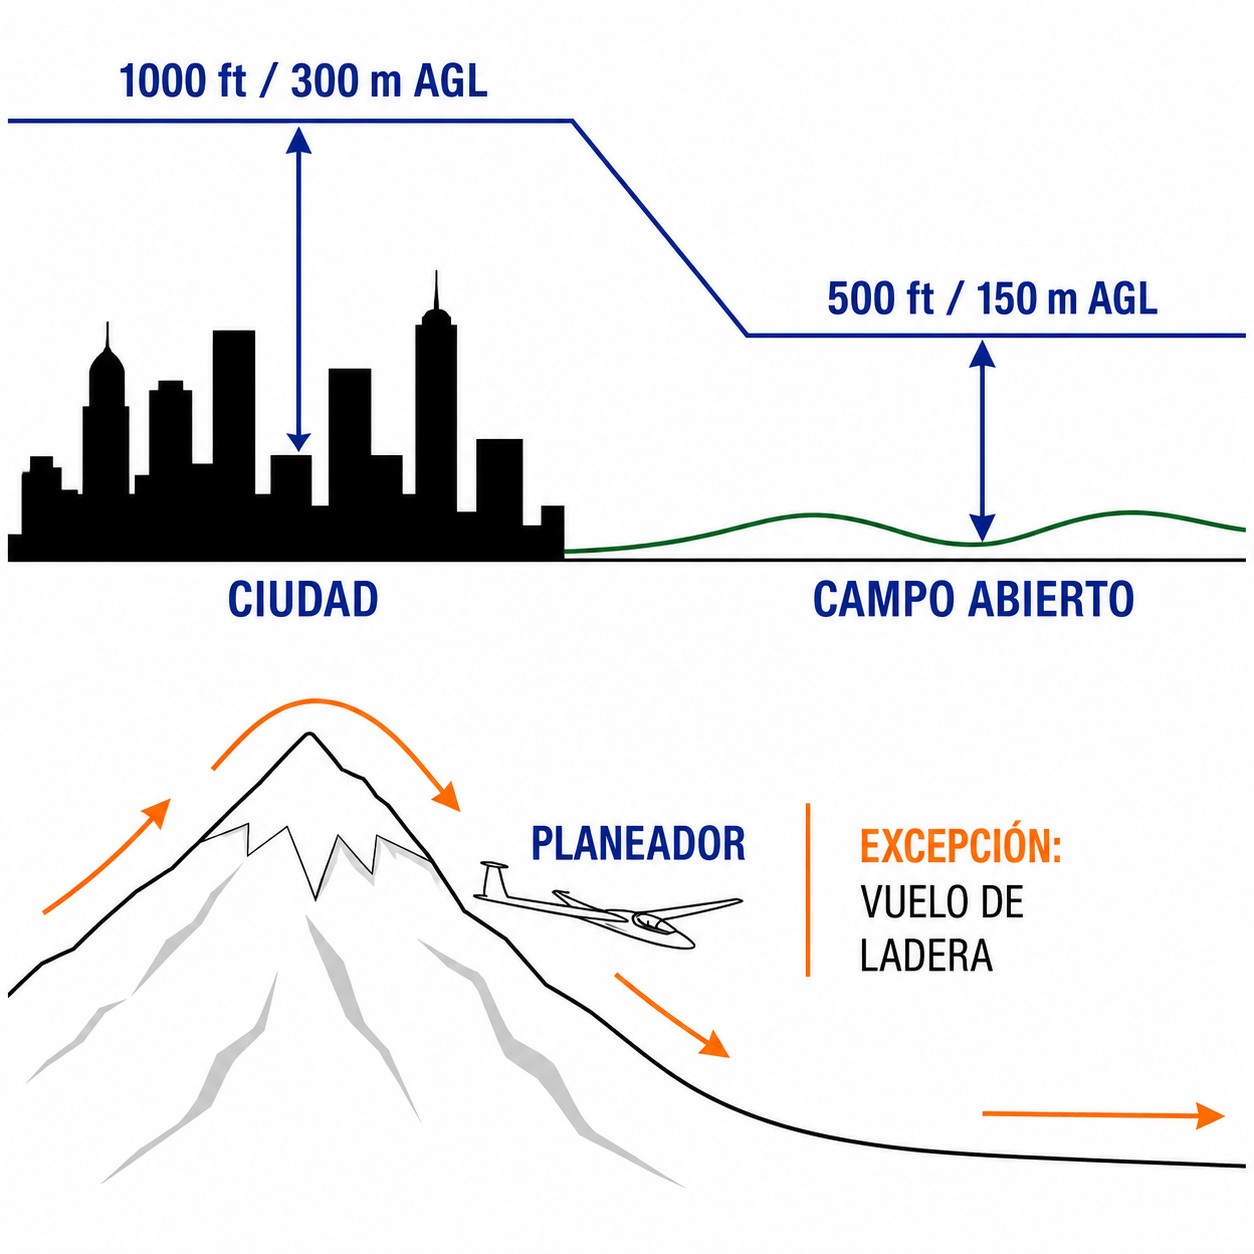
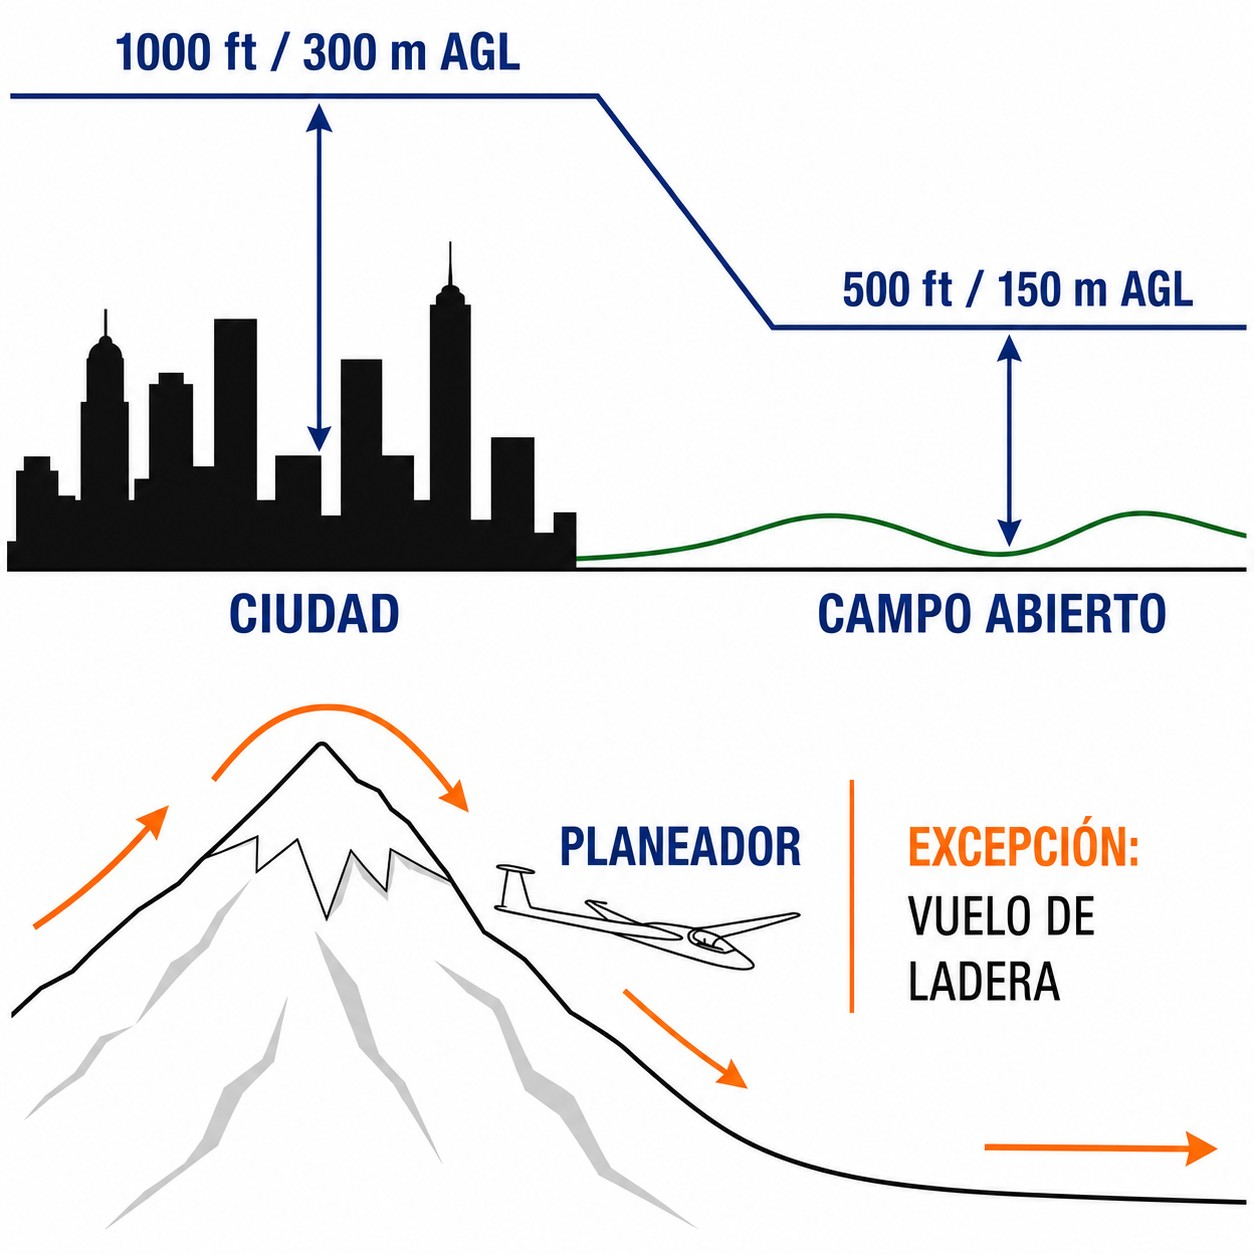
fix(01-derecho-aereo-atc): rehacer las tres ilustraciones de cap05
Prioridades de paso tenía un fondo de cielo fotográfico con los planeadores
dibujados en planta: se miraba la escena desde arriba y el fondo era el cielo.
El fondo pasa a vista cenital del terreno, que es lo coherente con esa planta.

En preferencia de paso en ladera, la ladera era un contorno vacío que podía
tomarse por una línea más del dibujo; ahora va rellena en color tierra.

Alturas mínimas es el mismo dibujo con el trazo redibujado y el azul más
oscuro, para que las tres se lean como una serie.

Ninguna cambia la regla que enseñan.

diff --git a/01-derecho-aereo-atc/CHANGELOG-01.md b/01-derecho-aereo-atc/CHANGELOG-01.md
@@ -16,6 +16,13 @@ rompe la compilación.
 
 ## [En curso]
 
+### Maqueta y producción
+
+* **cap05, tres ilustraciones rehechas** — ninguna cambia la regla que enseñan.
+  * *Prioridades de paso* — el fondo era un cielo fotográfico, y los planeadores se veían en planta: se miraba desde arriba con fondo de cielo. Ahora el fondo es la vista cenital del terreno, coherente con esa planta, y los planeadores y las flechas van en azul marino sobre él.
+  * *Preferencia de paso en ladera* — la ladera era un contorno vacío que podía leerse como una línea más del dibujo; ahora va rellena en color tierra y se distingue del aire a la primera.
+  * *Alturas mínimas* — mismo dibujo, trazo redibujado y azul más oscuro para igualarlo a las otras dos.
+
 ## [1.0-rc.11] — 28 de julio de 2026
 
 **Qué releer:** **cap05, prioridad de paso en ladera y excepciones de altura mínima.** Dos atribuciones normativas equivocadas y una enumeración incompleta. Lo que el alumno debe hacer en vuelo no cambia; sí cambia de dónde sale la regla, que es lo que un examen tiene que poder citar.
